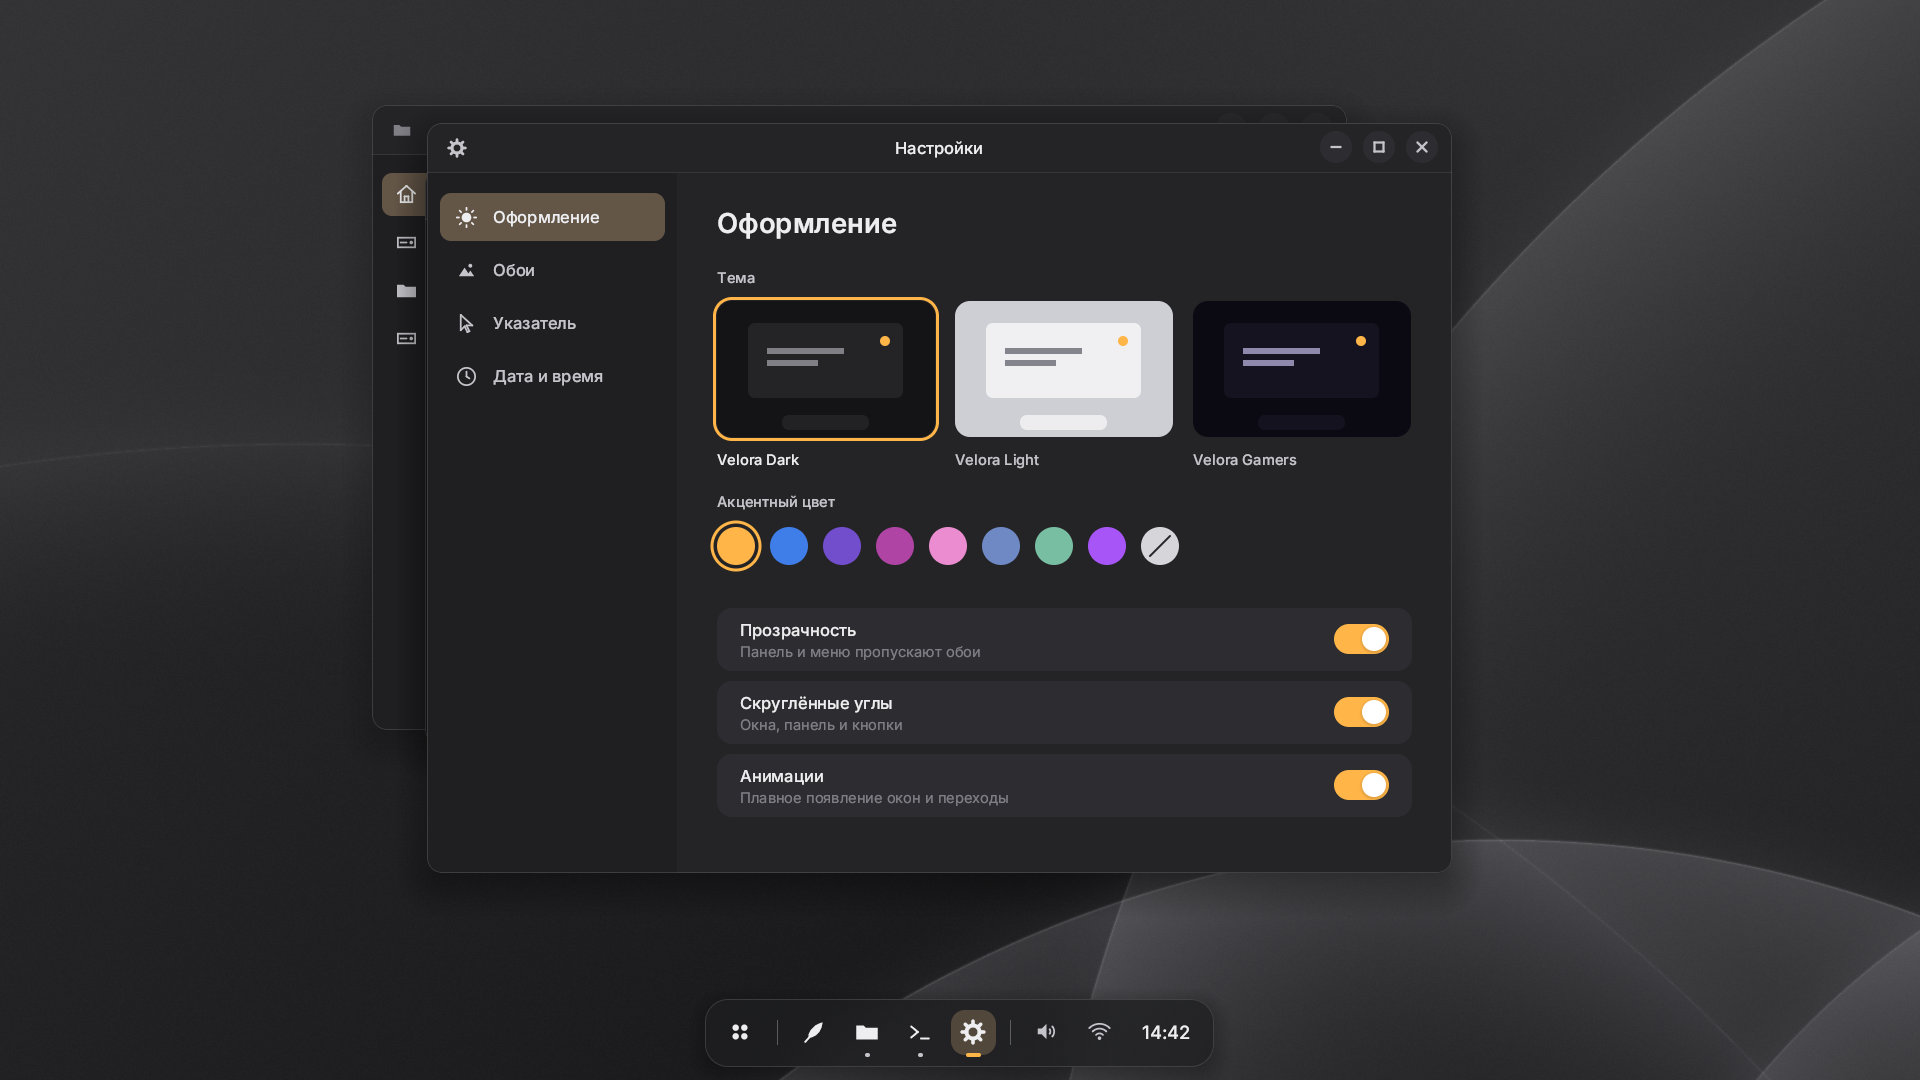
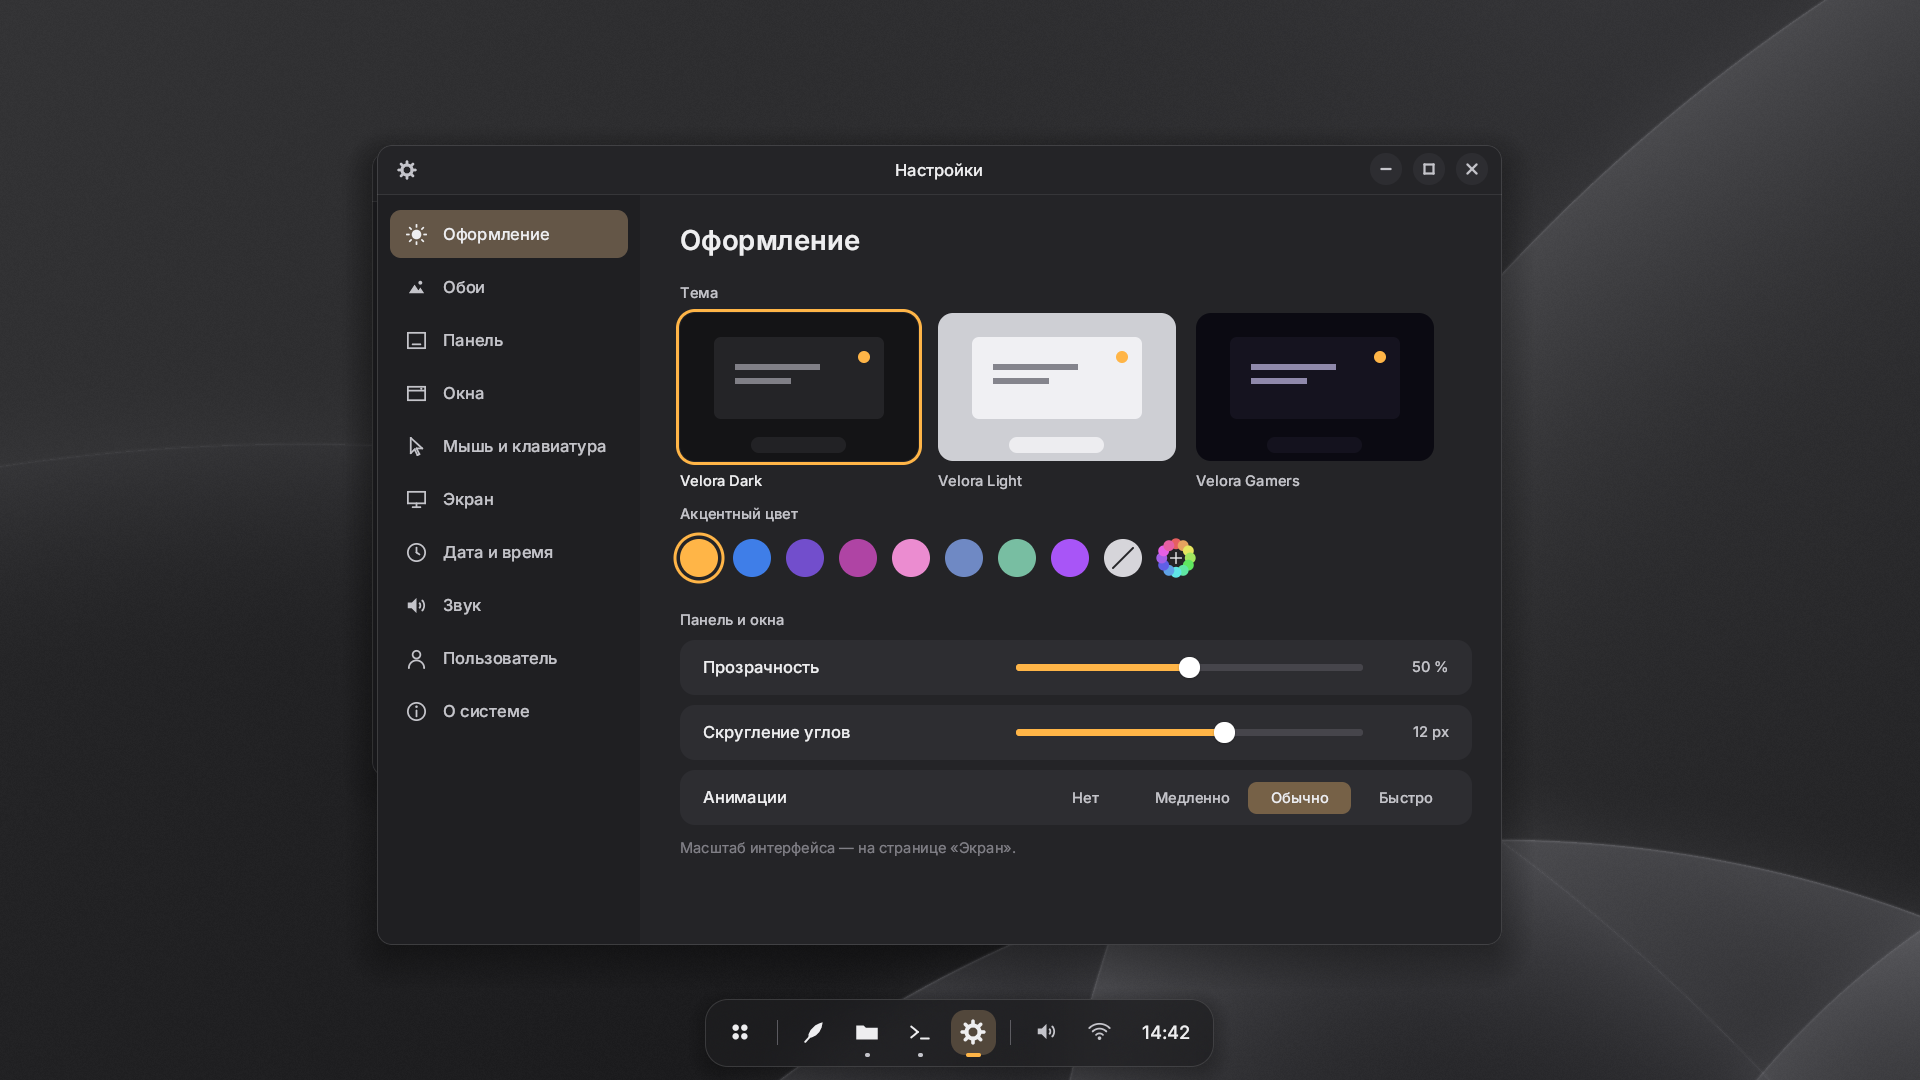
lumi: settings pages are drawn again whole after a page change; screenshots
The side bar's rows above the chosen one were drawn for the old page
and kept its highlight. New screenshots: the settings pages, the panel
hidden over a maximized window and back at the bottom edge, the
Ctrl+Alt+D view of a window drag.

diff --git a/lumi/examples/screens.rs b/lumi/examples/screens.rs
@@ -168,4 +168,80 @@ fn main() {
     r.step(&[Event::MouseButton { down: false }]);
     r.wait(400);
     r.shot("11-clock");
+    r.key(Key::Escape);
+    r.wait(300);
+    // Settings, page by page (a click on each row of the side bar).
+    r.d.launch(AppId::Settings, &mut r.h, &mut r.f);
+    r.wait(400);
+    let win = r.d.window_rect_of("Настройки").unwrap();
+    let sc = r.d.scale;
+    let s = |d: i32| ((d as i64 * sc + 128) >> 8) as i32;
+    let top = win.y + s(40);
+    let row_h = ((win.bottom() - top - s(24)) / 10).min(s(42));
+    let pages = [
+        (0, "12-settings-appearance"),
+        (1, "13-settings-wallpaper"),
+        (2, "14-settings-panel"),
+        (3, "15-settings-windows"),
+        (4, "16-settings-input"),
+        (5, "17-settings-display"),
+        (6, "18-settings-time"),
+        (8, "19-settings-user"),
+    ];
+    for (i, name) in pages {
+        let (x, y) = (win.x + s(100), top + s(12) + i * row_h + row_h / 2);
+        r.step(&[Event::MouseMove { x, y }]);
+        r.step(&[Event::MouseButton { down: true }]);
+        r.step(&[Event::MouseButton { down: false }]);
+        r.step(&[Event::MouseMove {
+            x: win.right() - s(20),
+            y: win.bottom() - s(20),
+        }]);
+        r.wait(400);
+        r.shot(name);
+    }
+    // A window maximized: smart hiding takes the panel away; the pointer
+    // at the bottom edge brings it back.
+    r.d.launch(AppId::Terminal, &mut r.h, &mut r.f);
+    r.wait(300);
+    r.step(&[Event::Chord {
+        key: Key::Up,
+        mods: mods::SUPER,
+    }]);
+    r.step(&[Event::MouseMove { x: w / 2, y: h / 3 }]);
+    r.wait(1200);
+    r.shot("20-panel-hidden");
+    r.step(&[Event::MouseMove { x: w / 2, y: h - 3 }]);
+    r.wait(500);
+    r.shot("21-panel-shown-at-the-edge");
+    r.step(&[Event::MouseMove { x: w / 2, y: h / 3 }]);
+    while !r.d.window_titles().is_empty() {
+        r.step(&[Event::Chord {
+            key: Key::F(4),
+            mods: mods::ALT,
+        }]);
+        r.wait(300);
+    }
+    r.d.launch(AppId::Files, &mut r.h, &mut r.f);
+    r.wait(600);
+    // Ctrl+Alt+D: every area drawn again is tinted (here a window moved
+    // by its title bar and the pointer over the panel).
+    r.step(&[Event::Chord {
+        key: Key::Char('d'),
+        mods: mods::CTRL | mods::ALT,
+    }]);
+    r.wait(100);
+    let t = r.d.window_rect_of("Домашняя папка").unwrap();
+    let (x, y) = (t.x + t.w / 2, t.y + s(14));
+    r.step(&[Event::MouseMove { x, y }]);
+    r.step(&[Event::MouseButton { down: true }]);
+    for i in 1..8 {
+        r.step(&[Event::MouseMove {
+            x: x + i * s(14),
+            y: y + i * s(6),
+        }]);
+    }
+    r.step(&[Event::MouseButton { down: false }]);
+    r.wait(300);
+    r.shot("22-damage-debug");
 }

diff --git a/lumi/src/apps/settings.rs b/lumi/src/apps/settings.rs
@@ -588,6 +588,8 @@ impl App for Settings {
                 col,
             );
             if resp.activated && !here {
+                // The rows above were drawn for the old page: all again.
+                cx.ui.request_redraw();
                 self.page = *p;
                 self.scroll = 0;
                 self.note = None;
@@ -1620,7 +1622,11 @@ impl Settings {
             let big = if cfg.clock_24h {
                 l.hhmm()
             } else {
-                let h12 = if l.hour.is_multiple_of(12) { 12 } else { l.hour % 12 };
+                let h12 = if l.hour.is_multiple_of(12) {
+                    12
+                } else {
+                    l.hour % 12
+                };
                 format!(
                     "{}:{:02} {}",
                     h12,
